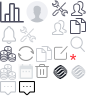
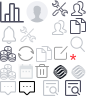
添加icon

Changed region(s): [[0.7442, 0.8125, 0.9535, 1.0], [0.4884, 0.8125, 0.6977, 1.0]]

diff --git a/css/public.min.css b/css/public.min.css
@@ -1,1 +1,1 @@
-.btn-primary,.btn-default,.btn-default:link,.btn-default:hover,.btn-default:active,.btn-default:focus{font-size:13px;padding:8px 35px;outline:none !important}a:link,a:active,a:hover{outline:none !important;text-decoration:none}.btn-primary{background-color:#3e7ad8;margin-right:20px}html{overflow:hidden}p{margin-bottom:0}.form-control{font-size:12px}.btn-primary{background:#3e7ad8}ul,li{padding:0;margin:0;list-style:none}.modal-header,.modal-footer{border:none}.modal-box-info{position:absolute;background-color:#fff;white-space:nowrap;padding:5px 10px 5px 30px;box-shadow:0 0 10px #ccc;-webkit-border-radius:4px;-moz-border-radius:4px;border-radius:4px;top:50%;left:50%;display:none}.modal-box-info:after{content:'';width:18px;height:18px;position:absolute;top:5px;left:8px;vertical-align:middle;background:url(../img/icon.png) no-repeat 0 0}html{height:100%}html body{height:100%;background-color:#eff4f8;position:relative}.icon-img{display:inline-block;width:14px;height:14px;background:url(../img/icon-den.png) no-repeat;background-position:-237px -5px;vertical-align:middle}.err-msg{color:#ff3038;margin-top:3px;font-size:12px;opacity:0;margin-bottom:0}.show-msg{opacity:1}.hide-icon-img{opacity:0}.control-label{width:105px;white-space:nowrap}.con-top-box{position:absolute;top:0;left:0;width:100%;height:70px;z-index:999;background-color:red}.con-top-box .top-box-bg{background-color:#fff;height:100%}.con-top-box .top-box-bg>a{width:160px;height:100%;float:left}.con-top-box .top-box-bg .top-right{margin-left:160px;box-sizing:border-box;width:100%;height:100%}.con-top-box .top-box-bg>a>.eco-title{display:inline-block;float:left;width:160px;height:70px;color:#fff;text-align:center;line-height:70px;font-size:18px;letter-spacing:2px;background:url("../img/logo.png") no-repeat 13px 16px;background-size:130px}.con-top-box .ul-top-left{float:left;margin-top:15px;margin-left:20px}.con-top-box .ul-top-left>li{padding:10px 10px;display:inline-block;margin-right:20px;color:#666}.con-top-box .ul-top-left>li a{color:#666}.con-top-box .ul-top-left>li .posi-list{position:absolute;top:40px;left:-8px;display:none;background-color:#fff;box-shadow:0 0 10px #ccc;padding:10px 0}.con-top-box .ul-top-left>li .posi-list li{white-space:nowrap;padding:5px 20px}.con-top-box .ul-top-right{float:right;position:relative;margin-top:15px;margin-right:160px}.con-top-box .ul-top-right li{display:inline-block;color:#666;padding:10px 10px;position:relative;cursor:pointer}.con-top-box .ul-top-right li a{color:#666;padding:30px 0}.con-top-box .ul-top-right li.user-name{padding-right:30px;margin-right:3px}.con-top-box .ul-top-right li.user-name div{display:inline-block;margin-left:20px}.con-top-box .ul-top-right li.user-name .avatar-img-box{margin-left:0;padding-bottom:30px}.con-top-box .ul-top-right li.user-name .avatar-img-box:hover .posi-list{display:block}.con-top-box .ul-top-right li.user-name .avatar-img{width:22px;height:22px;position:relative}.con-top-box .ul-top-right li.user-name .avatar-img img{width:100%;height:100%}.con-top-box .ul-top-right li.user-name .avatar-img .posi-list{position:absolute;top:35px;right:0;display:none;background-color:#fff;box-shadow:0 0 10px #ccc;padding:10px 0;width:100px}.con-top-box .ul-top-right li.user-name .avatar-img .posi-list li{padding:5px 20px 5px 20px;position:relative;display:block;text-align:center}.con-top-box .ul-top-right li.user-name .avatar-img .posi-list li a{display:block;width:100%;padding:0}.con-top-box .ul-top-right li.user-name .avatar-img .posi-list li a:hover{color:#3e7ad8}.con-top-box .ul-top-right li.user-name .avatar-img.tost .posi-list{width:200px}.con-top-box .ul-top-right li.user-name .prompt::after{content:'';display:block;position:absolute;width:8px;height:8px;-webkit-border-radius:50%;-moz-border-radius:50%;border-radius:50%;top:0;right:0;background-color:#ff3038}.left-box{position:absolute;top:0;left:0;width:160px;height:100%;background-color:#fff}.left-box ul{width:100%;text-align:center;padding:0;margin-top:150px}.left-box ul li{margin:5px 0;font-size:14px}.left-box ul li.active a{color:#666}.left-box ul li.com-info-logo{margin-bottom:30px}.left-box ul li.com-info-logo a{padding:0}.left-box ul li:hover a{color:#666}.left-box ul li a{display:block;width:100%;height:100%;padding:15px 0;color:#C0C4CA;transition:.1s color ease-in}.left-box ul li a .icon{display:inline-block;width:20px;height:20px;margin-right:10px;background-image:url(../img/iconAll.png);background-repeat:no-repeat;vertical-align:top}.left-box ul li .com-name{font-size:14px;color:#fff;letter-spacing:1px}.left-box ul li:nth-child(1) .icon{background-position:-34px -44px}.left-box ul li.active:nth-child(1) .icon,.left-box ul li:nth-child(1):hover .icon{background-position:-67px -16px}.left-box ul li:nth-child(2) .icon{background-position:-16px -24px}.left-box ul li.active:nth-child(2) .icon,.left-box ul li:nth-child(2):hover .icon{background-position:-48px 1px}.left-box ul li:nth-child(3) .icon{background-position:-49px -17px}.left-box ul li.active:nth-child(3) .icon,.left-box ul li:nth-child(3):hover .icon{background-position:-68px 2px}.left-box ul li:nth-child(4) .icon{background-position:1px -63px}.left-box ul li.active:nth-child(4) .icon,.left-box ul li:nth-child(4):hover .icon{background-position:1px -44px}.left-box ul li:nth-child(5) .icon{background-position:-16px -61px}.left-box ul li.active:nth-child(5) .icon,.left-box ul li:nth-child(5):hover .icon{background-position:0px -3px}.left-box ul li:nth-child(6) .icon{background-position:2px -79px}.left-box ul li.active:nth-child(6) .icon,.left-box ul li:nth-child(6):hover .icon{background-position:-16px -79px}.left-box ul li:nth-child(7) .icon{background-position:-69px -64px}.left-box ul li.active:nth-child(7) .icon,.left-box ul li:nth-child(7):hover .icon{background-position:-51px -64px}.right-box{padding:90px 20px 0 180px;box-sizing:border-box;height:100%;overflow:auto}.right-box .tab-list-top{background-color:#fff;margin-bottom:20px}.right-box .tab-list-top li{box-sizing:border-box;overflow:hidden;text-align:center;float:left;border-bottom:2px solid #fff}.right-box .tab-list-top li.active{border-bottom:2px solid #3e7ad8}.right-box .tab-list-top li.active a{color:#333}.right-box .tab-list-top li a{display:block;width:100%;height:100%;color:#999;padding:15px 0}.right-box .tab-list-top li a:hover{color:#333}.right-box .panel{padding:30px}.right-box .panel p.title,.right-box .panel div.title{font-size:18px;color:#3e7ad8;border-bottom:1px solid #eff4f8;padding-bottom:20px}.right-box .panel p.title-mr-bottom,.right-box .panel div.title-mr{margin-bottom:20px}.right-box .panel .table,.right-box .panel tbody,.right-box .panel tr,.right-box .panel td,.right-box .panel th,.right-box .panel thead{border:none;text-align:center}.right-box .panel thead tr,.right-box .panel thead td{padding-bottom:20px}.right-box .panel tbody tr,.right-box .panel tbody td{padding-bottom:15px;color:#666;font-size:14px}.right-box .panel tbody tr a,.right-box .panel tbody td a{color:#666;transition:.1s color ease}.right-box .panel tbody tr a:hover,.right-box .panel tbody td a:hover{color:#3e7ad8;text-decoration:underline}.resume-detail-box{box-sizing:border-box;padding:30px 30px 0 30px;position:relative;height:calc(100% - 51px);overflow:auto}.resume-detail-box .loading-box{position:absolute;top:50%;left:50%;margin-top:-20px;margin-left:-40px;z-index:999}.resume-detail-box div{box-sizing:border-box}.resume-detail-box .user-box{color:#999999;margin-bottom:40px}.resume-detail-box .user-box .user-avatar-img-box{width:84px;height:84px;border-radius:50%;overflow:hidden}.resume-detail-box .user-box .user-avatar-img-box img{width:100%;height:100%}.resume-detail-box .user-box .usre-name-title{font-size:20px;color:#222;margin:10px 0}.resume-detail-box .user-box .usre-name-title .btn-download{font-size:14px;color:#3e7ad8;margin-left:20px}.resume-detail-box .user-box .usre-name-title .btn-download:link a,.resume-detail-box .user-box .usre-name-title .btn-download:hover a{color:#3e7ad8;text-decoration:underline}.resume-detail-box .user-box .user-sub-info-top{margin-bottom:10px}.resume-detail-box .user-box .user-phone{margin-right:50px}.resume-detail-box .resume-part-item-box{margin-bottom:30px}.resume-detail-box .resume-part-item-box p{color:#999;font-size:12px;margin-bottom:18px}.resume-detail-box .resume-part-item-box .bold-title{color:#222;font-size:16px}.resume-detail-box .resume-part-item-box .bold{color:#444;font-size:14px}.resume-detail-box .resume-part-item-box .com-name{margin-right:40px}.resume-detail-box .resume-part-item-box .content{text-align:justify;color:#999;font-size:12px;line-height:18px}.modal-content{padding:30px}.btn-add-box{display:inline-block;width:80px;margin-right:15px;float:left}.btn-add-box-list{display:inline-block;width:80px;height:80px;margin-right:15px;border:1px solid #eee;float:left}.btn-add-box-list img{width:100%;height:100%}.btn-add-img{width:80px;height:80px;background-color:#eee;position:relative;cursor:pointer}.btn-add-img:after{content:'';display:block;position:absolute;width:40px;height:2px;background-color:#fff;top:50%;margin-top:-1px;left:50%;margin-left:-20px}.btn-add-img:before{content:'';display:block;position:absolute;width:2px;height:40px;background-color:#fff;top:50%;margin-top:-20px;left:50%;margin-left:-1px}.btn-add-box p{font-size:12px;color:#427ee0;margin-top:10px}.prompt-box{position:fixed;top:150px;right:-350px;width:340px;height:215px;background:#fff;box-shadow:0 0 10px #ccc;transition:.3s all ease-in;z-index:999;text-align:center}.prompt-box.prompt-box-ac{right:20px}.prompt-box .title{font-size:16px;color:#465C66;padding-top:30px;margin-bottom:20px}.prompt-box .con{color:#999;margin-bottom:40px}.prompt-box a{display:inline-block;margin:0 20px;padding:10px 15px;-webkit-border-radius:4px;-moz-border-radius:4px;border-radius:4px}.prompt-box .btn-exit{color:#333}.prompt-box .btn-detail{color:#fff;background:#FC2449}
+.btn-primary,.btn-default,.btn-default:link,.btn-default:hover,.btn-default:active,.btn-default:focus{font-size:13px;padding:8px 35px;outline:none !important}a:link,a:active,a:hover{outline:none !important;text-decoration:none}.btn-primary{background-color:#3e7ad8;margin-right:20px}html{overflow:hidden}p{margin-bottom:0}.form-control{font-size:12px}.btn-primary{background:#3e7ad8}ul,li{padding:0;margin:0;list-style:none}.modal-header,.modal-footer{border:none}.modal-box-info{position:absolute;background-color:#fff;white-space:nowrap;padding:5px 10px 5px 30px;box-shadow:0 0 10px #ccc;-webkit-border-radius:4px;-moz-border-radius:4px;border-radius:4px;top:50%;left:50%;display:none}.modal-box-info:after{content:'';width:18px;height:18px;position:absolute;top:5px;left:8px;vertical-align:middle;background:url(../img/icon.png) no-repeat 0 0}html{height:100%}html body{height:100%;background-color:#eff4f8;position:relative}.icon-img{display:inline-block;width:14px;height:14px;background:url(../img/icon-den.png) no-repeat;background-position:-237px -5px;vertical-align:middle}.err-msg{color:#ff3038;margin-top:3px;font-size:12px;opacity:0;margin-bottom:0}.show-msg{opacity:1}.hide-icon-img{opacity:0}.control-label{width:105px;white-space:nowrap}.con-top-box{position:absolute;top:0;left:0;width:100%;height:70px;z-index:999;background-color:red}.con-top-box .top-box-bg{background-color:#fff;height:100%}.con-top-box .top-box-bg>a{width:160px;height:100%;float:left}.con-top-box .top-box-bg .top-right{margin-left:160px;box-sizing:border-box;width:100%;height:100%}.con-top-box .top-box-bg>a>.eco-title{display:inline-block;float:left;width:160px;height:70px;color:#fff;text-align:center;line-height:70px;font-size:18px;letter-spacing:2px;background:url("../img/logo.png") no-repeat 13px 16px;background-size:130px}.con-top-box .ul-top-left{float:left;margin-top:15px;margin-left:20px}.con-top-box .ul-top-left>li{padding:10px 10px;display:inline-block;margin-right:20px;color:#666}.con-top-box .ul-top-left>li a{color:#666}.con-top-box .ul-top-left>li .posi-list{position:absolute;top:40px;left:-8px;display:none;background-color:#fff;box-shadow:0 0 10px #ccc;padding:10px 0}.con-top-box .ul-top-left>li .posi-list li{white-space:nowrap;padding:5px 20px}.con-top-box .ul-top-right{float:right;position:relative;margin-top:15px;margin-right:160px}.con-top-box .ul-top-right li{display:inline-block;color:#666;padding:10px 10px;position:relative;cursor:pointer}.con-top-box .ul-top-right li a{color:#666;padding:30px 0}.con-top-box .ul-top-right li.user-name{padding-right:30px;margin-right:3px}.con-top-box .ul-top-right li.user-name div{display:inline-block;margin-left:20px}.con-top-box .ul-top-right li.user-name .avatar-img-box{margin-left:0;padding-bottom:30px}.con-top-box .ul-top-right li.user-name .avatar-img-box:hover .posi-list{display:block}.con-top-box .ul-top-right li.user-name .avatar-img{width:22px;height:22px;position:relative}.con-top-box .ul-top-right li.user-name .avatar-img img{width:100%;height:100%}.con-top-box .ul-top-right li.user-name .avatar-img .posi-list{position:absolute;top:35px;right:0;display:none;background-color:#fff;box-shadow:0 0 10px #ccc;padding:10px 0;width:100px}.con-top-box .ul-top-right li.user-name .avatar-img .posi-list li{padding:5px 20px 5px 20px;position:relative;display:block;text-align:center}.con-top-box .ul-top-right li.user-name .avatar-img .posi-list li a{display:block;width:100%;padding:0}.con-top-box .ul-top-right li.user-name .avatar-img .posi-list li a:hover{color:#3e7ad8}.con-top-box .ul-top-right li.user-name .avatar-img.tost .posi-list{width:200px}.con-top-box .ul-top-right li.user-name .prompt::after{content:'';display:block;position:absolute;width:8px;height:8px;-webkit-border-radius:50%;-moz-border-radius:50%;border-radius:50%;top:0;right:0;background-color:#ff3038}.left-box{position:absolute;top:0;left:0;width:160px;height:100%;background-color:#fff}.left-box ul{width:100%;text-align:center;padding:0;margin-top:150px}.left-box ul li{margin:5px 0;font-size:14px}.left-box ul li.active a{color:#666}.left-box ul li.com-info-logo{margin-bottom:30px}.left-box ul li.com-info-logo a{padding:0}.left-box ul li:hover a{color:#666}.left-box ul li a{display:block;width:100%;height:100%;padding:15px 0;color:#C0C4CA;transition:.1s color ease-in}.left-box ul li a .icon{display:inline-block;width:20px;height:20px;margin-right:10px;background-image:url(../img/iconAll.png);background-repeat:no-repeat;vertical-align:top}.left-box ul li .com-name{font-size:14px;color:#fff;letter-spacing:1px}.left-box ul li:nth-child(1) .icon{background-position:-34px -44px}.left-box ul li.active:nth-child(1) .icon,.left-box ul li:nth-child(1):hover .icon{background-position:-67px -16px}.left-box ul li:nth-child(2) .icon{background-position:-16px -24px}.left-box ul li.active:nth-child(2) .icon,.left-box ul li:nth-child(2):hover .icon{background-position:-48px 1px}.left-box ul li:nth-child(3) .icon{background-position:-49px -17px}.left-box ul li.active:nth-child(3) .icon,.left-box ul li:nth-child(3):hover .icon{background-position:-68px 2px}.left-box ul li:nth-child(4) .icon{background-position:1px -63px}.left-box ul li.active:nth-child(4) .icon,.left-box ul li:nth-child(4):hover .icon{background-position:1px -44px}.left-box ul li:nth-child(5) .icon{background-position:-16px -61px}.left-box ul li.active:nth-child(5) .icon,.left-box ul li:nth-child(5):hover .icon{background-position:0px -3px}.left-box ul li:nth-child(6) .icon{background-position:2px -79px}.left-box ul li.active:nth-child(6) .icon,.left-box ul li:nth-child(6):hover .icon{background-position:-16px -79px}.left-box ul li:nth-child(7) .icon{background-position:-69px -60px}.left-box ul li.active:nth-child(7) .icon,.left-box ul li:nth-child(7):hover .icon{background-position:-51px -60px}.left-box ul li:nth-child(8) .icon{background-position:-43px -79px}.left-box ul li.active:nth-child(8) .icon,.left-box ul li:nth-child(8):hover .icon{background-position:-65px -79px}.right-box{padding:90px 20px 0 180px;box-sizing:border-box;height:100%;overflow:auto}.right-box .tab-list-top{background-color:#fff;margin-bottom:20px}.right-box .tab-list-top li{box-sizing:border-box;overflow:hidden;text-align:center;float:left;border-bottom:2px solid #fff}.right-box .tab-list-top li.active{border-bottom:2px solid #3e7ad8}.right-box .tab-list-top li.active a{color:#333}.right-box .tab-list-top li a{display:block;width:100%;height:100%;color:#999;padding:15px 0}.right-box .tab-list-top li a:hover{color:#333}.right-box .panel{padding:30px}.right-box .panel p.title,.right-box .panel div.title{font-size:18px;color:#3e7ad8;border-bottom:1px solid #eff4f8;padding-bottom:20px}.right-box .panel p.title-mr-bottom,.right-box .panel div.title-mr{margin-bottom:20px}.right-box .panel .table,.right-box .panel tbody,.right-box .panel tr,.right-box .panel td,.right-box .panel th,.right-box .panel thead{border:none;text-align:center}.right-box .panel thead tr,.right-box .panel thead td{padding-bottom:20px}.right-box .panel tbody tr,.right-box .panel tbody td{padding-bottom:15px;color:#666;font-size:14px}.right-box .panel tbody tr a,.right-box .panel tbody td a{color:#666;transition:.1s color ease}.right-box .panel tbody tr a:hover,.right-box .panel tbody td a:hover{color:#3e7ad8;text-decoration:underline}.resume-detail-box{box-sizing:border-box;padding:30px 30px 0 30px;position:relative;height:calc(100% - 51px);overflow:auto}.resume-detail-box .loading-box{position:absolute;top:50%;left:50%;margin-top:-20px;margin-left:-40px;z-index:999}.resume-detail-box div{box-sizing:border-box}.resume-detail-box .user-box{color:#999999;margin-bottom:40px}.resume-detail-box .user-box .user-avatar-img-box{width:84px;height:84px;border-radius:50%;overflow:hidden}.resume-detail-box .user-box .user-avatar-img-box img{width:100%;height:100%}.resume-detail-box .user-box .usre-name-title{font-size:20px;color:#222;margin:10px 0}.resume-detail-box .user-box .usre-name-title .btn-download{font-size:14px;color:#3e7ad8;margin-left:20px}.resume-detail-box .user-box .usre-name-title .btn-download:link a,.resume-detail-box .user-box .usre-name-title .btn-download:hover a{color:#3e7ad8;text-decoration:underline}.resume-detail-box .user-box .user-sub-info-top{margin-bottom:10px}.resume-detail-box .user-box .user-phone{margin-right:50px}.resume-detail-box .resume-part-item-box{margin-bottom:30px}.resume-detail-box .resume-part-item-box p{color:#999;font-size:12px;margin-bottom:18px}.resume-detail-box .resume-part-item-box .bold-title{color:#222;font-size:16px}.resume-detail-box .resume-part-item-box .bold{color:#444;font-size:14px}.resume-detail-box .resume-part-item-box .com-name{margin-right:40px}.resume-detail-box .resume-part-item-box .content{text-align:justify;color:#999;font-size:12px;line-height:18px}.modal-content{padding:30px}.btn-add-box{display:inline-block;width:80px;margin-right:15px;float:left}.btn-add-box-list{display:inline-block;width:80px;height:80px;margin-right:15px;border:1px solid #eee;float:left}.btn-add-box-list img{width:100%;height:100%}.btn-add-img{width:80px;height:80px;background-color:#eee;position:relative;cursor:pointer}.btn-add-img:after{content:'';display:block;position:absolute;width:40px;height:2px;background-color:#fff;top:50%;margin-top:-1px;left:50%;margin-left:-20px}.btn-add-img:before{content:'';display:block;position:absolute;width:2px;height:40px;background-color:#fff;top:50%;margin-top:-20px;left:50%;margin-left:-1px}.btn-add-box p{font-size:12px;color:#427ee0;margin-top:10px}.prompt-box{position:fixed;top:150px;right:-350px;width:340px;height:215px;background:#fff;box-shadow:0 0 10px #ccc;transition:.3s all ease-in;z-index:999;text-align:center}.prompt-box.prompt-box-ac{right:20px}.prompt-box .title{font-size:16px;color:#465C66;padding-top:30px;margin-bottom:20px}.prompt-box .con{color:#999;margin-bottom:40px}.prompt-box a{display:inline-block;margin:0 20px;padding:10px 15px;-webkit-border-radius:4px;-moz-border-radius:4px;border-radius:4px}.prompt-box .btn-exit{color:#333}.prompt-box .btn-detail{color:#fff;background:#FC2449}

diff --git a/css/public.scss b/css/public.scss
@@ -398,11 +398,19 @@ html {
       }
 
       &:nth-child(7) .icon {
-        background-position: -69px -64px;
+        background-position: -69px -60px;
       }
       &.active:nth-child(7) .icon,
       &:nth-child(7):hover .icon {
-        background-position: -51px -64px;
+        background-position: -51px -60px;
+      }
+
+      &:nth-child(8) .icon {
+        background-position: -43px -79px;
+      }
+      &.active:nth-child(8) .icon,
+      &:nth-child(8):hover .icon {
+        background-position: -65px -79px;
       }
     }
   }

diff --git a/css/public.css b/css/public.css
@@ -400,12 +400,21 @@ html body {
 }
 
 .left-box ul li:nth-child(7) .icon {
-  background-position: -69px -64px;
+  background-position: -69px -60px;
 }
 
 .left-box ul li.active:nth-child(7) .icon,
 .left-box ul li:nth-child(7):hover .icon {
-  background-position: -51px -64px;
+  background-position: -51px -60px;
+}
+
+.left-box ul li:nth-child(8) .icon {
+  background-position: -43px -79px;
+}
+
+.left-box ul li.active:nth-child(8) .icon,
+.left-box ul li:nth-child(8):hover .icon {
+  background-position: -65px -79px;
 }
 
 .right-box {

diff --git a/www/set-meal-apply.html b/www/set-meal-apply.html
@@ -87,6 +87,12 @@
                 <span>中国移动</span>
             </a>
         </li>
+        <li class="">
+            <a href="javascript:;">
+                <div class="icon"></div>
+                <span>套餐反馈</span>
+            </a>
+        </li>
     </ul>
 </div>
 
